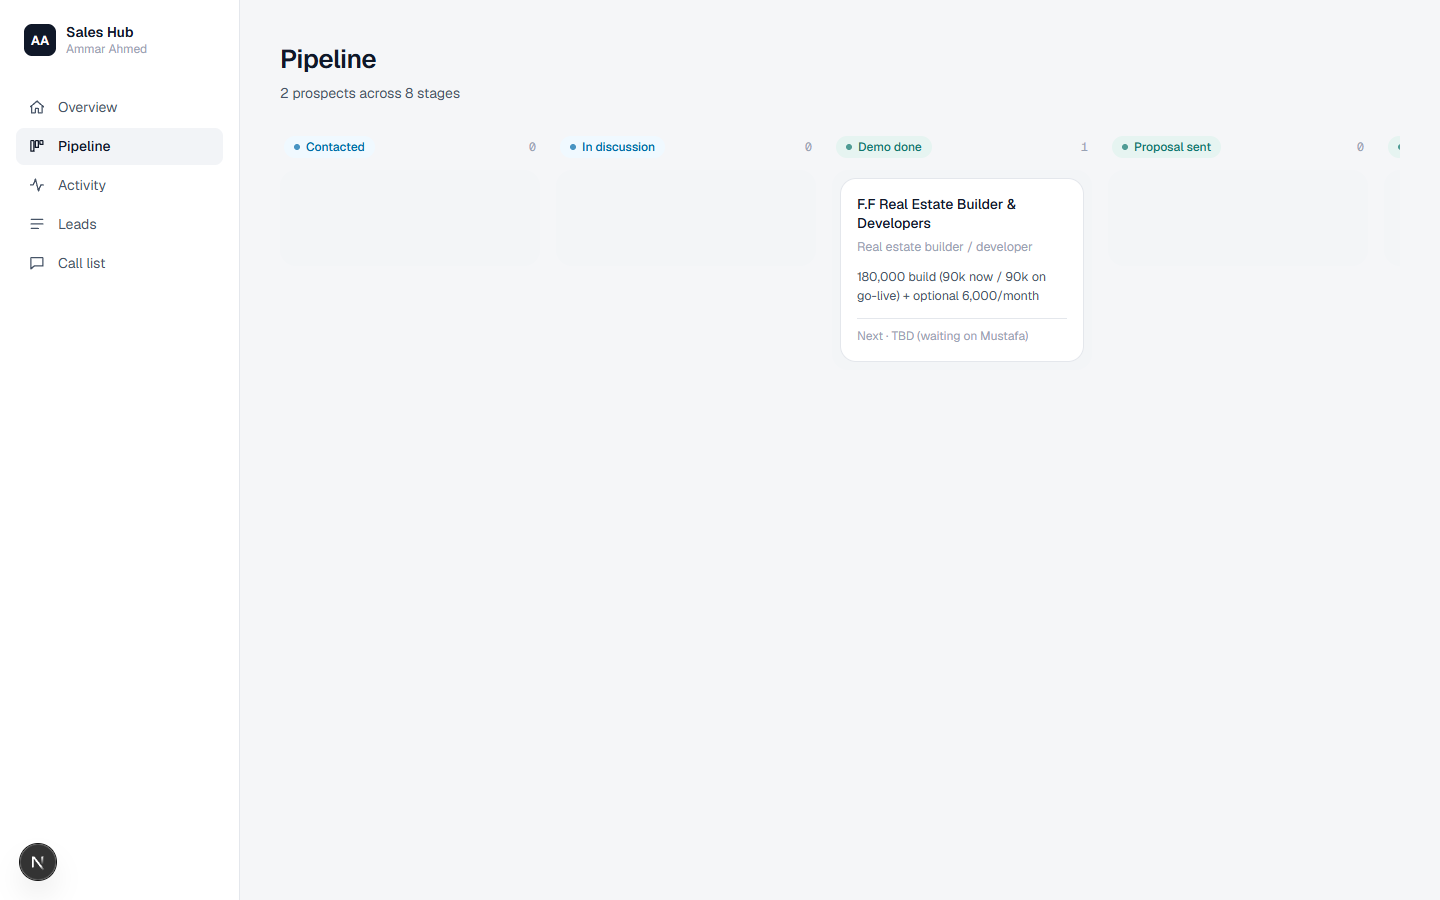
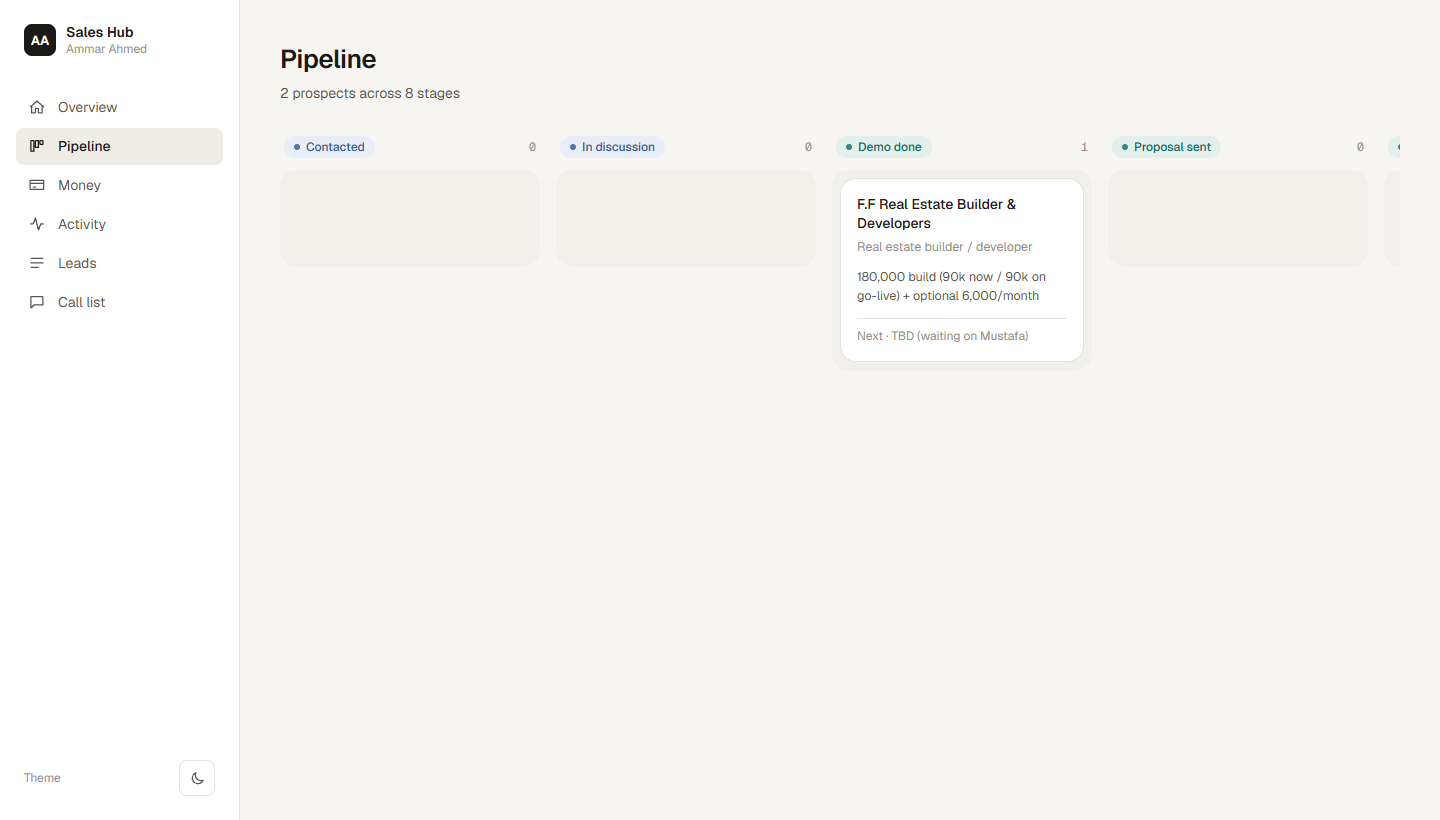
docs: refresh screenshots for the new theme + money page

diff --git a/README.md b/README.md
@@ -1,56 +1,62 @@
 # Sales Hub
 
 My sales operation in one place. Every prospect I'm talking to, every call and
-message, and the cold-lead pipeline from [LeadFlow](https://github.com/ammarahmeddevv/leadflow)
-— read live from Google Sheets and laid out so it's easy to scan on a laptop or
-a phone.
+message, the money in and owed, and the cold-lead pipeline from
+[LeadFlow](https://github.com/ammarahmeddevv/leadflow) — read live from Google
+Sheets and laid out so it's easy to scan on a laptop or a phone.
 
 ![Overview](docs/screenshots/hub-01-overview.png)
 
 ## What's in it
 
-- **Overview** — open deals, what's quoted, wins, and the cold-lead funnel;
-  the next step on every open deal, sorted by date, with overdue ones flagged;
-  the latest activity.
-- **Pipeline** — a board of every prospect by stage.
-- **Prospect pages** — the offer, the price, notes, one-tap Call and WhatsApp
-  for each contact, and that prospect's full history.
-- **Activity** — every call, message, meeting and build, newest first.
+- **Overview** — open deals, a money strip, the cold-lead funnel, and every
+  open deal's next step sorted by date (overdue in red), plus recent activity.
+- **Pipeline** — every prospect on a board, grouped by stage.
+- **Money** — collected, outstanding, open-pipeline value and win rate, then
+  per-deal value / received / balance with a progress bar.
+- **Prospect page** — the offer, the price, payment status, notes, full
+  history, and one-tap Call / WhatsApp for each contact.
+- **Activity** — every call, message and meeting, newest first.
 - **Leads** — the 500+ businesses LeadFlow found without a working website,
   searchable and filterable by country and trade.
-- **Call list** — each lead's first message, already written to suit the size
-  of the business, with Copy and Open-in-WhatsApp buttons.
+- **Call list** — each lead's ready-written first message, with Copy and
+  Open-in-WhatsApp buttons.
+- **Light and dark themes**, with a toggle that remembers your choice.
 
 ## How it works
 
-The Google Sheets are the source of truth — the Sales Tracker (prospects and
-activity log) and the LeadFlow lead database. This app has no database of its
-own: pages read the sheets server-side with a read-only Google service account
-and refresh every 60 seconds, so a change in the sheet shows up here within a
-minute.
+The Google Sheets are the source of truth — the Sales Tracker (prospects,
+activity log, deal values) and the LeadFlow lead database. This app keeps no
+database of its own: pages read the sheets server-side with a read-only Google
+service account and refresh every 60 seconds, so a change in the sheet shows up
+here within a minute.
 
 - Rows are mapped by column header, not position, so reordering columns in the
   sheet doesn't break anything.
-- Free-text stages ("Likely lost — no reply") are mapped onto a fixed set so
-  they can be grouped and coloured; the original wording is kept.
+- Free-text stages ("Likely lost — no reply") are mapped onto a fixed set for
+  grouping and colour; the original wording is kept.
 - Requests to Google are retried on dropped connections. If the sheets can't be
   reached, pages say so instead of showing stale numbers.
-- Kept out of search engines (`noindex` and a disallow-all `robots.txt`). An
+- Kept out of search engines (`noindex` + a disallow-all `robots.txt`). An
   optional password gate switches on when `HUB_PASSWORD` is set.
 
 ## Screenshots
 
-| Pipeline | Prospect |
+| Money | Pipeline |
 | --- | --- |
-| ![Pipeline](docs/screenshots/hub-02-pipeline.png) | ![Prospect](docs/screenshots/hub-03-prospect.png) |
+| ![Money](docs/screenshots/hub-07-money.png) | ![Pipeline](docs/screenshots/hub-02-pipeline.png) |
 
-| Activity | Leads |
+| Prospect | Activity |
 | --- | --- |
-| ![Activity](docs/screenshots/hub-04-activity.png) | ![Leads](docs/screenshots/hub-05-leads.png) |
+| ![Prospect](docs/screenshots/hub-03-prospect.png) | ![Activity](docs/screenshots/hub-04-activity.png) |
 
-| Call list | Mobile |
+| Leads | Call list |
 | --- | --- |
-| ![Call list](docs/screenshots/hub-06-calls.png) | <img src="docs/screenshots/hub-07-mobile-overview.png" width="240" alt="Mobile overview"> |
+| ![Leads](docs/screenshots/hub-05-leads.png) | ![Call list](docs/screenshots/hub-06-calls.png) |
+
+| Dark theme | Mobile |
+| --- | --- |
+| ![Dark](docs/screenshots/hub-08-overview-dark.png) | <img src="docs/screenshots/hub-10-mobile.png" width="240" alt="Mobile"> |
 
 ## Stack
 
